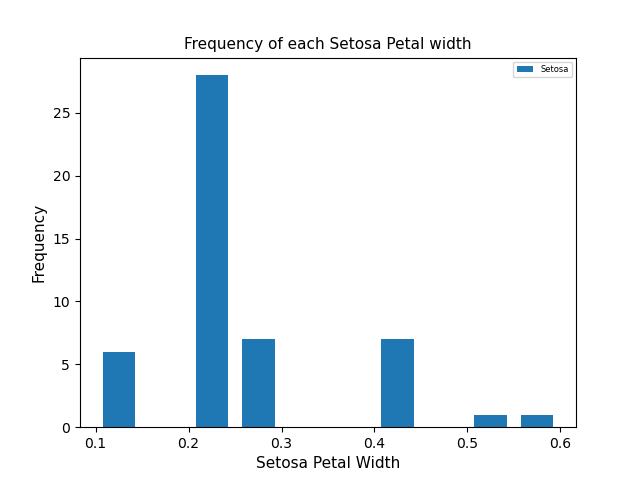
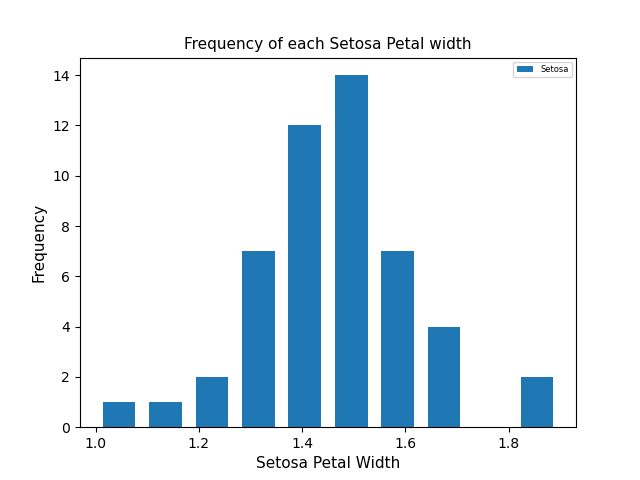
Fixed some graph x and y axis labels. Added scatter plots for sepal and petal widths

diff --git a/analysis.py b/analysis.py
@@ -156,10 +156,12 @@ virginica_PetalLen_data = working_df[working_df['Class'] == 'Iris-virginica']['P
 #lineplot 
 #sns.lineplot(x="Sepal_Length", y="Sepal_Width", data=working_df)
 #scatter plot
-grph = sns.lmplot( x="Sepal_Length" , y="Petal_Length" , data=working_df, hue='Class', legend=False)
+grph = sns.lmplot( x="Sepal_Length" , y="Petal_Length" , data=working_df, hue='Class', legend=True)
 plt.title("Scatter plot - combined sepal and petal lengths")
-plt.ylabel('Sepal', fontsize=fs)
-plt.xlabel('Petal', fontsize=fs)
+plt.xlabel('Sepal Length cm', fontsize=fs)
+plt.ylabel('Petal Length cm', fontsize=fs)
+#plt.legend(title='Class of iris')
+#plt.legend(['Setosa', 'Versicolor','Virginica'], fontsize = legend_fs)
 grph.fig.tight_layout() # helps it fit on the screen
 plt.savefig("scatter_all_sepal_petal_lengths.png", format="png")
 if display_plots_to_screen: plt.show()
@@ -175,8 +177,8 @@ plt.close()
 #scatter plot
 grph=sns.lmplot(x="Sepal_Length" , y="Petal_Length", data=setosa_data, hue='Class', legend=False)
 plt.title("Scatter plot - Setosa sepal and petal lengths")
-plt.xlabel('Sepal', fontsize=fs)
-plt.ylabel('Petal', fontsize=fs)
+plt.xlabel('Sepal Length cm', fontsize=fs)
+plt.ylabel('Petal Length cm', fontsize=fs)
 grph.fig.tight_layout() # helps it fit on the screen
 plt.savefig("scatter_setosa_sepal_petal_lengths.png", format="png")
 if display_plots_to_screen: plt.show()
@@ -189,8 +191,8 @@ plt.close()
 #scatter plot
 grph=sns.lmplot(x="Sepal_Length" , y="Petal_Length", data=versicolor_data, hue='Class', legend=False)
 plt.title("Scatter plot - Versicolor sepal and petal Lengths")
-plt.xlabel('Sepal', fontsize=fs)
-plt.ylabel('Petal', fontsize=fs)
+plt.xlabel('Sepal Length cm', fontsize=fs)
+plt.ylabel('Petal Length cm', fontsize=fs)
 grph.fig.tight_layout() # helps it fit on the screen
 plt.savefig("scatter_versicolor_sepal_petal_lengths.png", format="png")
 if display_plots_to_screen: plt.show()
@@ -203,8 +205,8 @@ plt.close()
 #scatter plot
 grph=sns.lmplot(x="Sepal_Length" , y="Petal_Length", data=virginica_data, hue='Class', legend=False)
 plt.title("Scatter plot - virginica sepal and petal Lengths")
-plt.ylabel('Sepal', fontsize=fs)
-plt.xlabel('Petal', fontsize=fs)
+plt.xlabel('Sepal Length cm', fontsize=fs)
+plt.ylabel('Petal Length cm', fontsize=fs)
 grph.fig.tight_layout() # helps it fit on the screen
 plt.savefig("scatter_virginca_sepal_petal_lengths.png", format="png")
 if display_plots_to_screen: plt.show()
@@ -213,7 +215,174 @@ plt.close()
 
 
 #########################################
-# ALL IRIS CLASSES PLOTS - HISTOGRAM 
+# HISTOGRAM PLOTS  
+#########################################
+
+#ALL CLASSES - SEPAL WIDTH plot
+plt.hist([setosa_sepalWidth_data,versicolor_sepalWidth_data,virginica_sepalWidth_data])
+plt.title('Frequency of each Sepal width', fontsize=fs)
+plt.xlabel('Sepal Width', fontsize=fs)
+plt.ylabel('Frequency', fontsize=fs)
+plt.legend(title='Class of iris')
+plt.legend(['Setosa', 'Versicolor','Virginica'], fontsize = legend_fs)
+plt.savefig("histogram_frequency_sepal_width.png", format="png")
+if display_plots_to_screen: plt.show()
+plt.close()
+
+#COMBINED CLASSES - SEPAL LENGTH plot
+plt.hist([setosa_sepalLen_data,versicolor_sepalLen_data,virginica_sepalLen_data])
+plt.title('Frequency of each Sepal length', fontsize=fs)
+plt.xlabel('Sepal Length', fontsize=fs)
+plt.ylabel('Frequency', fontsize=fs)
+plt.legend(title='Class of iris')
+plt.legend(['Setosa', 'Versicolor','Virginica'], fontsize = legend_fs)
+plt.savefig("histogram_frequency_sepal_length.png", format="png")
+if display_plots_to_screen: plt.show()
+plt.close()
+
+#COMBINED CLASSES - PETAL WIDTH plot
+plt.hist([setosa_PetalWidth_data,versicolor_PetalWidth_data,virginica_PetalWidth_data])
+plt.title('Frequency of each Petal width', fontsize=fs)
+plt.xlabel('Petal Width', fontsize=fs)
+plt.ylabel('Frequency', fontsize=fs)
+plt.legend(title='Class of iris')
+plt.legend(['Setosa', 'Versicolor','Virginica'], fontsize = legend_fs)
+plt.savefig("histogram_frequency_petal_width.png", format="png")
+if display_plots_to_screen: plt.show()
+plt.close()
+
+#COMBINED CLASSES - PETAL LENGTH plot
+plt.hist([setosa_PetalLen_data,versicolor_PetalLen_data,virginica_PetalLen_data])
+plt.title('Frequency of each Petal length', fontsize=fs)
+plt.xlabel('Petal Length', fontsize=fs)
+plt.ylabel('Frequency', fontsize=fs)
+plt.legend(title='Class of iris')
+plt.legend(['Setosa', 'Versicolor','Virginica'], fontsize = legend_fs)
+plt.savefig("histogram_frequency_petal_length.png", format="png")
+if display_plots_to_screen: plt.show()
+plt.close()
+###################################################################################################
+
+######################################
+# HISTOGRAM - SETOSA CLASS plots 
+######################################
+
+#SETOSA CLASS - SEPAL WIDTH plot
+plt.hist([setosa_sepalWidth_data], rwidth=0.7) #use rwidth to add space in histogram as per https://www.geeksforgeeks.org/add-space-between-histogram-bars-in-matplotlib/)
+plt.title('Frequency of each Setosa Sepal width', fontsize=fs)
+plt.xlabel('Setosa Sepal Width', fontsize=fs)
+plt.ylabel('Frequency', fontsize=fs)
+plt.legend(title='Class of Setosa iris')
+plt.legend(['Setosa'], fontsize = legend_fs)
+plt.savefig("histogram_frequency_setosa_sepal_width.png", format="png")
+if display_plots_to_screen: plt.show()
+plt.close()
+
+#SETOSA CLASS - SEPAL LENGTH plot
+plt.hist([setosa_sepalLen_data], rwidth=0.7) #use rwidth to add space in histogram as per https://www.geeksforgeeks.org/add-space-between-histogram-bars-in-matplotlib/)
+plt.title('Frequency of each Setosa Sepal length', fontsize=fs)
+plt.xlabel('Setosa Sepal Length', fontsize=fs)
+plt.ylabel('Frequency', fontsize=fs)
+plt.legend(title='Class of Setosa iris')
+plt.legend(['Setosa'], fontsize = legend_fs)
+plt.savefig("histogram_frequency_setosa_sepal_length.png", format="png")
+if display_plots_to_screen: plt.show()
+plt.close()
+
+#SETOSA CLASS - PETAL WIDTH plot
+plt.hist([setosa_PetalWidth_data], rwidth=0.7) #use rwidth to add space in histogram as per https://www.geeksforgeeks.org/add-space-between-histogram-bars-in-matplotlib/)
+plt.title('Frequency of each Setosa Petal width', fontsize=fs)
+plt.xlabel('Setosa Petal Width', fontsize=fs)
+plt.ylabel('Frequency', fontsize=fs)
+plt.legend(title='Class of Setosa iris')
+plt.legend(['Setosa'], fontsize = legend_fs)
+plt.savefig("histogram_frequency_setosa_Petal_width.png", format="png")
+if display_plots_to_screen: plt.show()
+plt.close()
+
+#SETOSA CLASS - PETAL LENGTH plot
+plt.hist([setosa_PetalLen_data], rwidth=0.7) #use rwidth to add space in histogram as per https://www.geeksforgeeks.org/add-space-between-histogram-bars-in-matplotlib/
+plt.title('Frequency of each Setosa Petal length', fontsize=fs)
+plt.xlabel('Setosa Petal Length', fontsize=fs)
+plt.ylabel('Frequency', fontsize=fs)
+plt.legend(title='Class of Setosa iris')
+plt.legend(['Setosa'], fontsize = legend_fs)
+#plt.width = 1
+#plt.tight_layout()
+#plt.figsize=(2,5) # ref https://matplotlib.org/stable/api/_as_gen/matplotlib.pyplot.figure.html
+plt.savefig("histogram_frequency_setosa_Petal_length.png", format="png")
+if display_plots_to_screen: plt.show()
+plt.close()
+###################################################################################################
+
+
+################################################
+# SCATTER PLOT - All sepal and petal widths 
+################################################
+# Seaborn plot
+#lineplot 
+#sns.lineplot(x="Sepal_Width", y="Sepal_Width", data=working_df)
+#scatter plot
+grph = sns.lmplot( x="Sepal_Width" , y="Petal_Width" , data=working_df, hue='Class', legend=True)
+plt.title("Scatter plot - combined sepal and petal widths")
+plt.xlabel('Sepal Width cm', fontsize=fs)
+plt.ylabel('Petal Width cm', fontsize=fs)
+#plt.legend(title='Class of iris')
+#plt.legend(['Setosa', 'Versicolor','Virginica'], fontsize = legend_fs)
+grph.fig.tight_layout() # helps it fit on the screen
+plt.savefig("scatter_all_sepal_petal_widths.png", format="png")
+if display_plots_to_screen: plt.show()
+plt.close()
+
+#############################################
+# SCATTER PLOT - Setosa sepal and petal widths
+#############################################
+# First attempt at scatter plot
+# Seaborn plot
+#lineplot 
+#sns.lineplot(x="Sepal_Width", y="Sepal_Width", data=working_df)
+#scatter plot
+grph=sns.lmplot(x="Sepal_Width" , y="Petal_Width", data=setosa_data, hue='Class', legend=False)
+plt.title("Scatter plot - Setosa sepal and petal widths")
+plt.xlabel('Sepal Width cm', fontsize=fs)
+plt.ylabel('Petal Width cm', fontsize=fs)
+grph.fig.tight_layout() # helps it fit on the screen
+plt.savefig("scatter_setosa_sepal_petal_widths.png", format="png")
+if display_plots_to_screen: plt.show()
+plt.close()
+
+#################################################
+# SCATTER PLOT - Versicolor sepal and petal widths 
+#################################################
+# Seaborn plot
+#scatter plot
+grph=sns.lmplot(x="Sepal_Width" , y="Petal_Width", data=versicolor_data, hue='Class', legend=False)
+plt.title("Scatter plot - Versicolor sepal and petal Widths")
+plt.xlabel('Sepal Width cm', fontsize=fs)
+plt.ylabel('Petal Width cm', fontsize=fs)
+grph.fig.tight_layout() # helps it fit on the screen
+plt.savefig("scatter_versicolor_sepal_petal_widths.png", format="png")
+if display_plots_to_screen: plt.show()
+plt.close()
+
+#################################################
+# SCATTER PLOT - Virginica sepal and petal Widths 
+#################################################
+# Seaborn plot
+#scatter plot
+grph=sns.lmplot(x="Sepal_Width" , y="Petal_Width", data=virginica_data, hue='Class', legend=False)
+plt.title("Scatter plot - virginica sepal and petal Widths")
+plt.xlabel('Sepal Width cm', fontsize=fs)
+plt.ylabel('Petal Width cm', fontsize=fs)
+grph.fig.tight_layout() # helps it fit on the screen
+plt.savefig("scatter_virginca_sepal_petal_widths.png", format="png")
+if display_plots_to_screen: plt.show()
+plt.close()
+
+
+
+#########################################
+# HISTOGRAM PLOTS  
 #########################################
 
 #ALL CLASSES - SEPAL WIDTH plot
@@ -229,12 +398,12 @@ plt.close()
 
 #COMBINED CLASSES - SEPAL LENGTH plot
 plt.hist([setosa_sepalLen_data,versicolor_sepalLen_data,virginica_sepalLen_data])
-plt.title('Frequency of each Sepal length', fontsize=fs)
+plt.title('Frequency of each Sepal width', fontsize=fs)
 plt.ylabel('Frequency', fontsize=fs)
-plt.xlabel('Sepal Length', fontsize=fs)
+plt.xlabel('Sepal Width', fontsize=fs)
 plt.legend(title='Class of iris')
 plt.legend(['Setosa', 'Versicolor','Virginica'], fontsize = legend_fs)
-plt.savefig("histogram_frequency_sepal_length.png", format="png")
+plt.savefig("histogram_frequency_sepal_width.png", format="png")
 if display_plots_to_screen: plt.show()
 plt.close()
 
@@ -251,18 +420,18 @@ plt.close()
 
 #COMBINED CLASSES - PETAL LENGTH plot
 plt.hist([setosa_PetalLen_data,versicolor_PetalLen_data,virginica_PetalLen_data])
-plt.title('Frequency of each Petal length', fontsize=fs)
+plt.title('Frequency of each Petal width', fontsize=fs)
 plt.ylabel('Frequency', fontsize=fs)
-plt.xlabel('Petal Length', fontsize=fs)
+plt.xlabel('Petal Width', fontsize=fs)
 plt.legend(title='Class of iris')
 plt.legend(['Setosa', 'Versicolor','Virginica'], fontsize = legend_fs)
-plt.savefig("histogram_frequency_petal_length.png", format="png")
+plt.savefig("histogram_frequency_petal_width.png", format="png")
 if display_plots_to_screen: plt.show()
 plt.close()
 ###################################################################################################
 
 ######################################
-# SETOSA CLASS plots - HISTOGRAM
+# HISTOGRAM - SETOSA CLASS plots 
 ######################################
 
 #SETOSA CLASS - SEPAL WIDTH plot
@@ -278,12 +447,12 @@ plt.close()
 
 #SETOSA CLASS - SEPAL LENGTH plot
 plt.hist([setosa_sepalLen_data], rwidth=0.7) #use rwidth to add space in histogram as per https://www.geeksforgeeks.org/add-space-between-histogram-bars-in-matplotlib/)
-plt.title('Frequency of each Setosa Sepal length', fontsize=fs)
+plt.title('Frequency of each Setosa Sepal width', fontsize=fs)
 plt.ylabel('Frequency', fontsize=fs)
-plt.xlabel('Setosa Sepal Length', fontsize=fs)
+plt.xlabel('Setosa Sepal Width', fontsize=fs)
 plt.legend(title='Class of Setosa iris')
 plt.legend(['Setosa'], fontsize = legend_fs)
-plt.savefig("histogram_frequency_setosa_sepal_length.png", format="png")
+plt.savefig("histogram_frequency_setosa_sepal_width.png", format="png")
 if display_plots_to_screen: plt.show()
 plt.close()
 
@@ -300,21 +469,24 @@ plt.close()
 
 #SETOSA CLASS - PETAL LENGTH plot
 plt.hist([setosa_PetalLen_data], rwidth=0.7) #use rwidth to add space in histogram as per https://www.geeksforgeeks.org/add-space-between-histogram-bars-in-matplotlib/
-plt.title('Frequency of each Setosa Petal length', fontsize=fs)
+plt.title('Frequency of each Setosa Petal width', fontsize=fs)
 plt.ylabel('Frequency', fontsize=fs)
-plt.xlabel('Setosa Petal Length', fontsize=fs)
+plt.xlabel('Setosa Petal Width', fontsize=fs)
 plt.legend(title='Class of Setosa iris')
 plt.legend(['Setosa'], fontsize = legend_fs)
 #plt.width = 1
 #plt.tight_layout()
 #plt.figsize=(2,5) # ref https://matplotlib.org/stable/api/_as_gen/matplotlib.pyplot.figure.html
-plt.savefig("histogram_frequency_setosa_Petal_length.png", format="png")
+plt.savefig("histogram_frequency_setosa_Petal_width.png", format="png")
 if display_plots_to_screen: plt.show()
 plt.close()
 ###################################################################################################
 
+
+
+
 ######################################
-# VERISICOLOR CLASS plots - HISTOGRAM
+# HISTOGRAM - VERISICOLOR CLASS plots 
 ######################################
 
 #VERISICOLOR CLASS - SEPAL WIDTH plot
@@ -365,7 +537,7 @@ plt.close()
 
 
 ######################################
-# VIRGINICA CLASS plots - HISTOGRAM
+# HISTOGRAM - VIRGINICA CLASS plots 
 ######################################
 
 #VIRGINICA CLASS - SEPAL WIDTH plot
